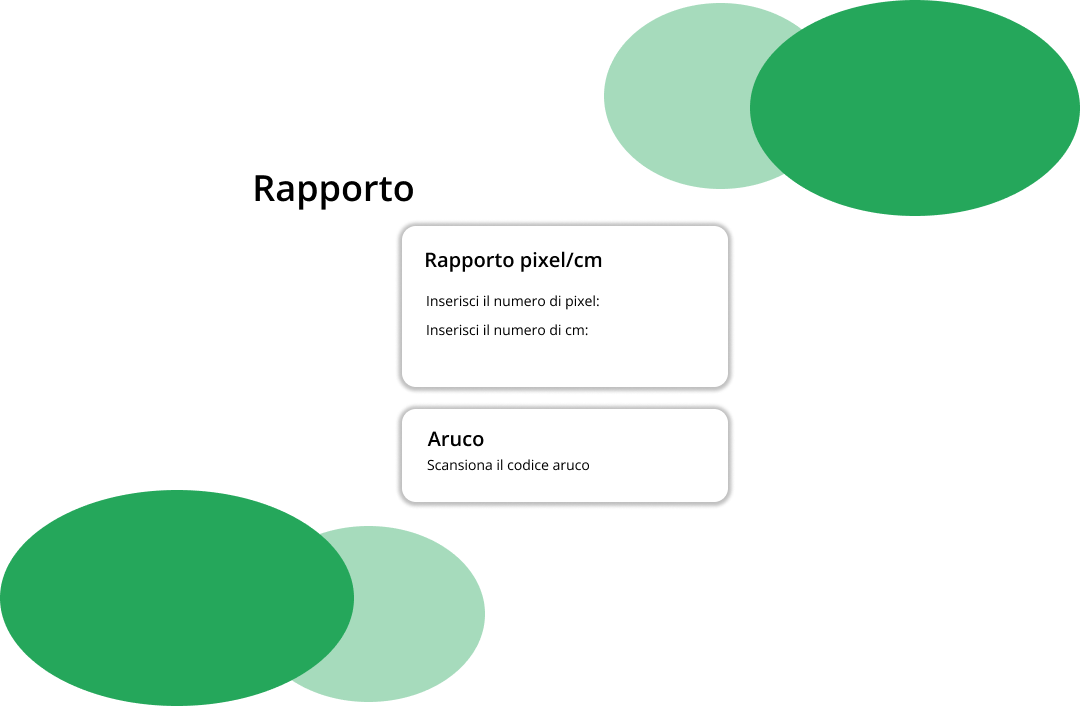
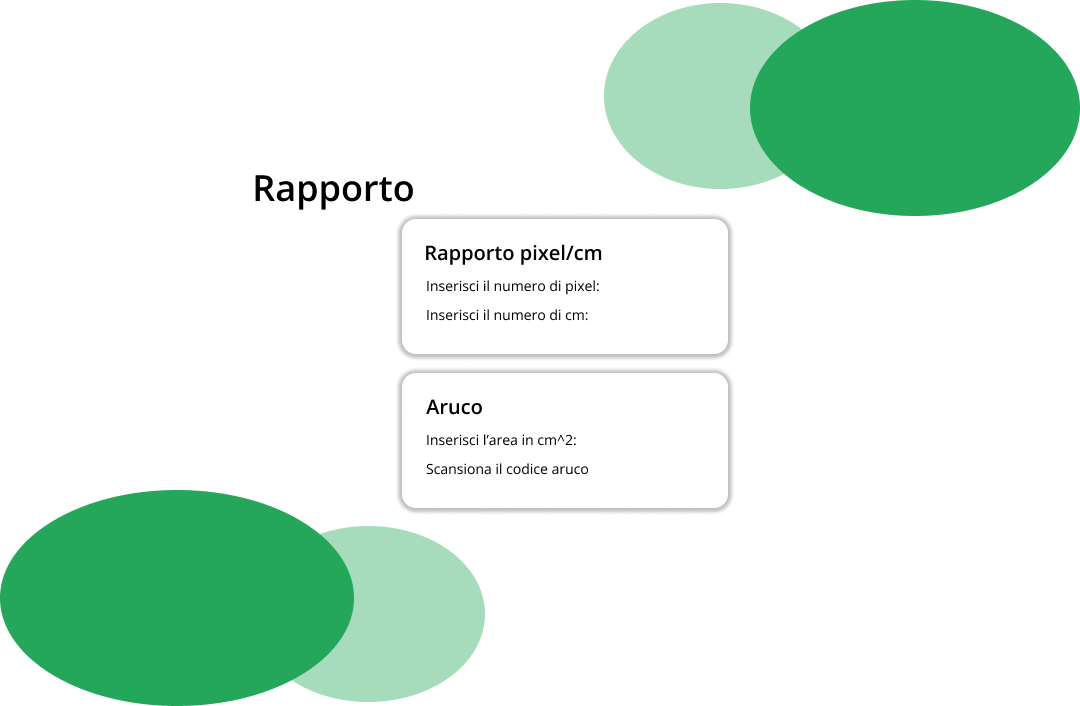
'CmPerPixelPage' updated. Now the user should insert the Aruco marker area directly inside the page

Changed region(s): [[0.3667, 0.2805, 0.7028, 0.7479]]

diff --git a/App/UI/PixelCmRelation/cm_per_pixel_page.py b/App/UI/PixelCmRelation/cm_per_pixel_page.py
@@ -77,13 +77,13 @@ class CmPerPixelPage(Page):
         )
 
         self.update_pixel_cm_ratio.place(
-            x=521, y=225,
+            x=521, y=190,
             width=30,
             height=31
         )
 
         self.pixel_form = self.canvas.create_image(
-            476.5, 176.5,
+            476.5, 161.5,
             image=self.form_field_img
         )
 
@@ -97,13 +97,13 @@ class CmPerPixelPage(Page):
         )
 
         self.pixel_form.place(
-            x=450, y=168.4,
+            x=450, y=153.4,
             width=53,
             height=19
         )
 
         self.cm_form = self.canvas.create_image(
-            464.5, 205.5,
+            464.5, 190.5,
             image=self.form_field_img
         )
 
@@ -117,13 +117,34 @@ class CmPerPixelPage(Page):
         )
 
         self.cm_form.place(
-            x=438, y=197.4,
+            x=438, y=182.4,
             width=53,
             height=19
         )
 
         self.cm_form.insert(0, 1)
         self.__try_load_ratio()
+
+        self.aruco_area_form = self.canvas.create_image(
+            455.5, 315.5,
+            image=self.form_field_img
+        )
+
+        self.aruco_area_form = FormField(
+            root=self.root,
+            input_type=constants.DataTypes.FLOAT,
+            setting="ARUCO_AREA_IN_CM",
+            bd=0,
+            bg="#ffffff",
+            highlightthickness=0,
+            justify='center'
+        )
+
+        self.aruco_area_form.place(
+            x=429, y=307.4,
+            width=53,
+            height=19
+        )
 
     def __try_load_ratio(self):
         try:
@@ -168,5 +189,6 @@ class CmPerPixelPage(Page):
         return pixel_cm_ratio, pixel_cm_squared_ratio
 
     def start_aruco_marker_detection(self):
+        self.aruco_area_form.update_setting()
         aruco_detector = ArucoDetector()
         aruco_detector.start()

diff --git a/App/UI/InputSelection/input_selection_page.py b/App/UI/InputSelection/input_selection_page.py
@@ -116,10 +116,13 @@ class InputSelectionPage(Page):
 
     def get_results_and_go_to_recap_page(self, object_detector, status):
         if status is True:
+            i = 0
             for shape in object_detector.shapes:
+                print(f"{i}")
                 print(f"area: {shape.average_area / object_detector.pixel_cm_squared_ratio}")
                 print(f"perimeter: {shape.average_perim / object_detector.pixel_cm_ratio}")
                 print("================")
+                i += 1
 
             cropped_images = self.crop_shapes(object_detector.img, object_detector.shapes)
             self.to_page(

diff --git a/App/UI/Recap/recap_page.py b/App/UI/Recap/recap_page.py
@@ -96,6 +96,7 @@ class RecapPage(Page):
 
     def delete_shape(self, shape_to_delete):
         try:
+            print(shape_to_delete)
             self.cropped_images.remove(shape_to_delete)
             self.images_list.refresh_list(
                 parent_frame=self.images_list_frame,

diff --git a/App/UI/Recap/ImageTile/image_tile.py b/App/UI/Recap/ImageTile/image_tile.py
@@ -70,3 +70,4 @@ class ImageTile(Frame):
 
     def click(self, event):
         cv2.imshow(f"{self.img_name}", self.img)
+
